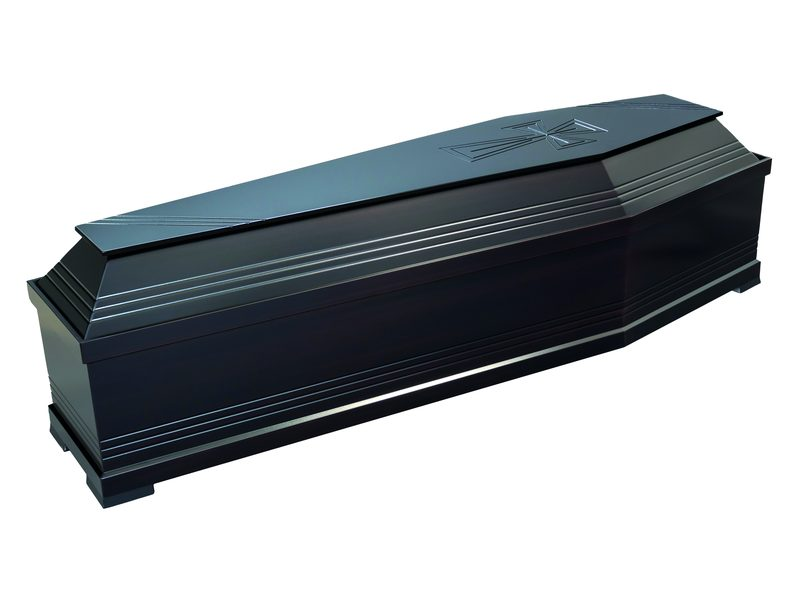
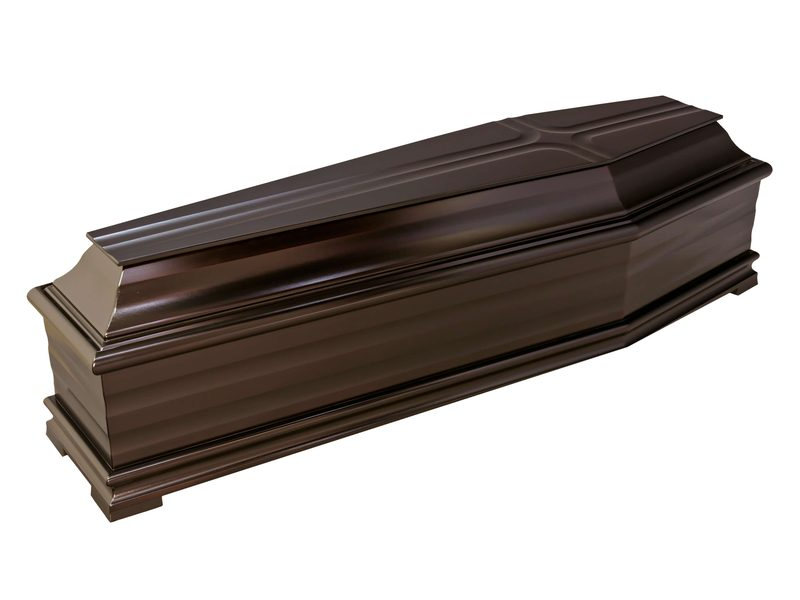
Εκθεσιακός Χώρος: φέρετρα Τογρίδη ΛΤ1–ΛΤ6 και ΛΤ30–ΛΤ52 (ΝΣ1–ΝΣ29), hover λεπτομέρειας

diff --git a/ekthesiakos-xoros/index.html b/ekthesiakos-xoros/index.html
@@ -31,7 +31,7 @@
   <link rel="preconnect" href="https://fonts.googleapis.com">
   <link rel="preconnect" href="https://fonts.gstatic.com" crossorigin>
   <link href="https://fonts.googleapis.com/css2?family=Bona+Nova:ital,wght@0,400;0,700;1,400&family=Manrope:wght@400;500;600;700&display=swap" rel="stylesheet">
-  <link rel="stylesheet" href="/css/style.css?v=55930bc8">
+  <link rel="stylesheet" href="/css/style.css?v=677fbdaf">
   <script>document.documentElement.classList.add("js")</script>
   <script type="application/ld+json">
 {
@@ -343,80 +343,92 @@
       <p class="lead">Για κάθε μοντέλο ρωτήστε μας με τον κωδικό του (π.χ. ΝΣ1) για διαθεσιμότητα και τιμή.</p>
     </div>
     <div class="coffins"><figure class="coffin">
-        <div class="coffin-img"><img src="/images/feretra/ns-01.jpg?v=a509110a" alt="Φέρετρο ΝΣ1" width="800" height="600" loading="lazy" decoding="async"></div>
+        <div class="coffin-img"><img src="/images/feretra/ns-01.jpg?v=49fc8ac6" alt="Φέρετρο ΝΣ1" width="800" height="600" loading="lazy" decoding="async"></div>
         <figcaption><span>Φέρετρο</span><span class="ns-code"><img src="/images/logo-emblem.svg?v=0229724a" alt="" width="26" height="26">ΝΣ1</span></figcaption>
       </figure><figure class="coffin">
-        <div class="coffin-img"><img src="/images/feretra/ns-02.jpg?v=50a0dc26" alt="Φέρετρο ΝΣ2" width="800" height="600" loading="lazy" decoding="async"></div>
+        <div class="coffin-img"><img src="/images/feretra/ns-02.jpg?v=b3fe45cb" alt="Φέρετρο ΝΣ2" width="800" height="600" loading="lazy" decoding="async"></div>
         <figcaption><span>Φέρετρο</span><span class="ns-code"><img src="/images/logo-emblem.svg?v=0229724a" alt="" width="26" height="26">ΝΣ2</span></figcaption>
       </figure><figure class="coffin">
-        <div class="coffin-img"><img src="/images/feretra/ns-03.jpg?v=affc0937" alt="Φέρετρο ΝΣ3" width="800" height="600" loading="lazy" decoding="async"></div>
+        <div class="coffin-img"><img src="/images/feretra/ns-03.jpg?v=b3b64ed7" alt="Φέρετρο ΝΣ3" width="800" height="600" loading="lazy" decoding="async"></div>
         <figcaption><span>Φέρετρο</span><span class="ns-code"><img src="/images/logo-emblem.svg?v=0229724a" alt="" width="26" height="26">ΝΣ3</span></figcaption>
       </figure><figure class="coffin">
-        <div class="coffin-img"><img src="/images/feretra/ns-04.jpg?v=61e7fa18" alt="Φέρετρο ΝΣ4" width="800" height="600" loading="lazy" decoding="async"></div>
+        <div class="coffin-img"><img src="/images/feretra/ns-04.jpg?v=2aa57f7a" alt="Φέρετρο ΝΣ4" width="800" height="600" loading="lazy" decoding="async"></div>
         <figcaption><span>Φέρετρο</span><span class="ns-code"><img src="/images/logo-emblem.svg?v=0229724a" alt="" width="26" height="26">ΝΣ4</span></figcaption>
       </figure><figure class="coffin">
-        <div class="coffin-img"><img src="/images/feretra/ns-05.jpg?v=1c40e6ad" alt="Φέρετρο ΝΣ5" width="800" height="600" loading="lazy" decoding="async"></div>
+        <div class="coffin-img"><img src="/images/feretra/ns-05.jpg?v=b9858bf8" alt="Φέρετρο ΝΣ5" width="800" height="600" loading="lazy" decoding="async"></div>
         <figcaption><span>Φέρετρο</span><span class="ns-code"><img src="/images/logo-emblem.svg?v=0229724a" alt="" width="26" height="26">ΝΣ5</span></figcaption>
       </figure><figure class="coffin">
-        <div class="coffin-img"><img src="/images/feretra/ns-06.jpg?v=bc024340" alt="Φέρετρο ΝΣ6" width="800" height="600" loading="lazy" decoding="async"></div>
+        <div class="coffin-img"><img src="/images/feretra/ns-06.jpg?v=a509110a" alt="Φέρετρο ΝΣ6" width="800" height="600" loading="lazy" decoding="async"></div>
         <figcaption><span>Φέρετρο</span><span class="ns-code"><img src="/images/logo-emblem.svg?v=0229724a" alt="" width="26" height="26">ΝΣ6</span></figcaption>
       </figure><figure class="coffin">
-        <div class="coffin-img"><img src="/images/feretra/ns-07.jpg?v=921107a1" alt="Φέρετρο ΝΣ7" width="800" height="600" loading="lazy" decoding="async"></div>
+        <div class="coffin-img"><img src="/images/feretra/ns-07.jpg?v=4c207993" alt="Φέρετρο ΝΣ7" width="800" height="600" loading="lazy" decoding="async"></div>
         <figcaption><span>Φέρετρο</span><span class="ns-code"><img src="/images/logo-emblem.svg?v=0229724a" alt="" width="26" height="26">ΝΣ7</span></figcaption>
       </figure><figure class="coffin">
-        <div class="coffin-img"><img src="/images/feretra/ns-08.jpg?v=344077b5" alt="Φέρετρο ΝΣ8" width="800" height="600" loading="lazy" decoding="async"></div>
+        <div class="coffin-img"><img src="/images/feretra/ns-08.jpg?v=b40c100a" alt="Φέρετρο ΝΣ8" width="800" height="600" loading="lazy" decoding="async"></div>
         <figcaption><span>Φέρετρο</span><span class="ns-code"><img src="/images/logo-emblem.svg?v=0229724a" alt="" width="26" height="26">ΝΣ8</span></figcaption>
-      </figure><figure class="coffin">
-        <div class="coffin-img"><img src="/images/feretra/ns-09.jpg?v=98d46623" alt="Φέρετρο ΝΣ9" width="800" height="600" loading="lazy" decoding="async"></div>
+      </figure><figure class="coffin has-alt">
+        <div class="coffin-img"><img src="/images/feretra/ns-09.jpg?v=e47941de" alt="Φέρετρο ΝΣ9" width="800" height="600" loading="lazy" decoding="async"><img class="alt" src="/images/feretra/ns-09-b.jpg?v=4f579cf0" alt="" width="800" height="600" loading="lazy" decoding="async"></div>
         <figcaption><span>Φέρετρο</span><span class="ns-code"><img src="/images/logo-emblem.svg?v=0229724a" alt="" width="26" height="26">ΝΣ9</span></figcaption>
-      </figure><figure class="coffin">
-        <div class="coffin-img"><img src="/images/feretra/ns-10.jpg?v=f0885069" alt="Φέρετρο ΝΣ10" width="800" height="600" loading="lazy" decoding="async"></div>
+      </figure><figure class="coffin has-alt">
+        <div class="coffin-img"><img src="/images/feretra/ns-10.jpg?v=9264a419" alt="Φέρετρο ΝΣ10" width="800" height="600" loading="lazy" decoding="async"><img class="alt" src="/images/feretra/ns-10-b.jpg?v=fb5206c9" alt="" width="800" height="600" loading="lazy" decoding="async"></div>
         <figcaption><span>Φέρετρο</span><span class="ns-code"><img src="/images/logo-emblem.svg?v=0229724a" alt="" width="26" height="26">ΝΣ10</span></figcaption>
-      </figure><figure class="coffin">
-        <div class="coffin-img"><img src="/images/feretra/ns-11.jpg?v=be9fce94" alt="Φέρετρο ΝΣ11" width="800" height="600" loading="lazy" decoding="async"></div>
+      </figure><figure class="coffin has-alt">
+        <div class="coffin-img"><img src="/images/feretra/ns-11.jpg?v=ca767d42" alt="Φέρετρο ΝΣ11" width="800" height="600" loading="lazy" decoding="async"><img class="alt" src="/images/feretra/ns-11-b.jpg?v=793852ee" alt="" width="800" height="600" loading="lazy" decoding="async"></div>
         <figcaption><span>Φέρετρο</span><span class="ns-code"><img src="/images/logo-emblem.svg?v=0229724a" alt="" width="26" height="26">ΝΣ11</span></figcaption>
-      </figure><figure class="coffin">
-        <div class="coffin-img"><img src="/images/feretra/ns-12.jpg?v=a76ac381" alt="Φέρετρο ΝΣ12" width="800" height="600" loading="lazy" decoding="async"></div>
+      </figure><figure class="coffin has-alt">
+        <div class="coffin-img"><img src="/images/feretra/ns-12.jpg?v=1373c8b3" alt="Φέρετρο ΝΣ12" width="800" height="600" loading="lazy" decoding="async"><img class="alt" src="/images/feretra/ns-12-b.jpg?v=36bd8859" alt="" width="800" height="600" loading="lazy" decoding="async"></div>
         <figcaption><span>Φέρετρο</span><span class="ns-code"><img src="/images/logo-emblem.svg?v=0229724a" alt="" width="26" height="26">ΝΣ12</span></figcaption>
-      </figure><figure class="coffin">
-        <div class="coffin-img"><img src="/images/feretra/ns-13.jpg?v=b44b5df5" alt="Φέρετρο ΝΣ13" width="800" height="600" loading="lazy" decoding="async"></div>
+      </figure><figure class="coffin has-alt">
+        <div class="coffin-img"><img src="/images/feretra/ns-13.jpg?v=65989dc7" alt="Φέρετρο ΝΣ13" width="800" height="600" loading="lazy" decoding="async"><img class="alt" src="/images/feretra/ns-13-b.jpg?v=c7cd44a7" alt="" width="800" height="600" loading="lazy" decoding="async"></div>
         <figcaption><span>Φέρετρο</span><span class="ns-code"><img src="/images/logo-emblem.svg?v=0229724a" alt="" width="26" height="26">ΝΣ13</span></figcaption>
-      </figure><figure class="coffin">
-        <div class="coffin-img"><img src="/images/feretra/ns-14.jpg?v=8f1da83f" alt="Φέρετρο ΝΣ14" width="800" height="600" loading="lazy" decoding="async"></div>
+      </figure><figure class="coffin has-alt">
+        <div class="coffin-img"><img src="/images/feretra/ns-14.jpg?v=57c83745" alt="Φέρετρο ΝΣ14" width="800" height="600" loading="lazy" decoding="async"><img class="alt" src="/images/feretra/ns-14-b.jpg?v=b7ee51c3" alt="" width="800" height="600" loading="lazy" decoding="async"></div>
         <figcaption><span>Φέρετρο</span><span class="ns-code"><img src="/images/logo-emblem.svg?v=0229724a" alt="" width="26" height="26">ΝΣ14</span></figcaption>
-      </figure><figure class="coffin">
-        <div class="coffin-img"><img src="/images/feretra/ns-15.jpg?v=752f7ab7" alt="Φέρετρο ΝΣ15" width="800" height="600" loading="lazy" decoding="async"></div>
+      </figure><figure class="coffin has-alt">
+        <div class="coffin-img"><img src="/images/feretra/ns-15.jpg?v=0faeb623" alt="Φέρετρο ΝΣ15" width="800" height="600" loading="lazy" decoding="async"><img class="alt" src="/images/feretra/ns-15-b.jpg?v=03e06d97" alt="" width="800" height="600" loading="lazy" decoding="async"></div>
         <figcaption><span>Φέρετρο</span><span class="ns-code"><img src="/images/logo-emblem.svg?v=0229724a" alt="" width="26" height="26">ΝΣ15</span></figcaption>
-      </figure><figure class="coffin">
-        <div class="coffin-img"><img src="/images/feretra/ns-16.jpg?v=04a785e4" alt="Φέρετρο ΝΣ16" width="800" height="600" loading="lazy" decoding="async"></div>
+      </figure><figure class="coffin has-alt">
+        <div class="coffin-img"><img src="/images/feretra/ns-16.jpg?v=823c6407" alt="Φέρετρο ΝΣ16" width="800" height="600" loading="lazy" decoding="async"><img class="alt" src="/images/feretra/ns-16-b.jpg?v=d625d18e" alt="" width="800" height="600" loading="lazy" decoding="async"></div>
         <figcaption><span>Φέρετρο</span><span class="ns-code"><img src="/images/logo-emblem.svg?v=0229724a" alt="" width="26" height="26">ΝΣ16</span></figcaption>
-      </figure><figure class="coffin">
-        <div class="coffin-img"><img src="/images/feretra/ns-17.jpg?v=19d02770" alt="Φέρετρο ΝΣ17" width="800" height="600" loading="lazy" decoding="async"></div>
+      </figure><figure class="coffin has-alt">
+        <div class="coffin-img"><img src="/images/feretra/ns-17.jpg?v=0aeb4102" alt="Φέρετρο ΝΣ17" width="800" height="600" loading="lazy" decoding="async"><img class="alt" src="/images/feretra/ns-17-b.jpg?v=7339364d" alt="" width="800" height="600" loading="lazy" decoding="async"></div>
         <figcaption><span>Φέρετρο</span><span class="ns-code"><img src="/images/logo-emblem.svg?v=0229724a" alt="" width="26" height="26">ΝΣ17</span></figcaption>
-      </figure><figure class="coffin">
-        <div class="coffin-img"><img src="/images/feretra/ns-18.jpg?v=1770c96b" alt="Φέρετρο ΝΣ18" width="800" height="600" loading="lazy" decoding="async"></div>
+      </figure><figure class="coffin has-alt">
+        <div class="coffin-img"><img src="/images/feretra/ns-18.jpg?v=6b72402c" alt="Φέρετρο ΝΣ18" width="800" height="600" loading="lazy" decoding="async"><img class="alt" src="/images/feretra/ns-18-b.jpg?v=f295a709" alt="" width="800" height="600" loading="lazy" decoding="async"></div>
         <figcaption><span>Φέρετρο</span><span class="ns-code"><img src="/images/logo-emblem.svg?v=0229724a" alt="" width="26" height="26">ΝΣ18</span></figcaption>
-      </figure><figure class="coffin">
-        <div class="coffin-img"><img src="/images/feretra/ns-19.jpg?v=66ee1d44" alt="Φέρετρο ΝΣ19" width="800" height="600" loading="lazy" decoding="async"></div>
+      </figure><figure class="coffin has-alt">
+        <div class="coffin-img"><img src="/images/feretra/ns-19.jpg?v=bc7b713e" alt="Φέρετρο ΝΣ19" width="800" height="600" loading="lazy" decoding="async"><img class="alt" src="/images/feretra/ns-19-b.jpg?v=b0fb6be4" alt="" width="800" height="600" loading="lazy" decoding="async"></div>
         <figcaption><span>Φέρετρο</span><span class="ns-code"><img src="/images/logo-emblem.svg?v=0229724a" alt="" width="26" height="26">ΝΣ19</span></figcaption>
-      </figure><figure class="coffin">
-        <div class="coffin-img"><img src="/images/feretra/ns-20.jpg?v=a5fc7ff0" alt="Φέρετρο ΝΣ20" width="800" height="600" loading="lazy" decoding="async"></div>
+      </figure><figure class="coffin has-alt">
+        <div class="coffin-img"><img src="/images/feretra/ns-20.jpg?v=71f90f0e" alt="Φέρετρο ΝΣ20" width="800" height="600" loading="lazy" decoding="async"><img class="alt" src="/images/feretra/ns-20-b.jpg?v=33cecc2f" alt="" width="800" height="600" loading="lazy" decoding="async"></div>
         <figcaption><span>Φέρετρο</span><span class="ns-code"><img src="/images/logo-emblem.svg?v=0229724a" alt="" width="26" height="26">ΝΣ20</span></figcaption>
-      </figure><figure class="coffin">
-        <div class="coffin-img"><img src="/images/feretra/ns-21.jpg?v=68375f8c" alt="Φέρετρο ΝΣ21" width="800" height="600" loading="lazy" decoding="async"></div>
+      </figure><figure class="coffin has-alt">
+        <div class="coffin-img"><img src="/images/feretra/ns-21.jpg?v=d1ad56f0" alt="Φέρετρο ΝΣ21" width="800" height="600" loading="lazy" decoding="async"><img class="alt" src="/images/feretra/ns-21-b.jpg?v=dc8d9cda" alt="" width="800" height="600" loading="lazy" decoding="async"></div>
         <figcaption><span>Φέρετρο</span><span class="ns-code"><img src="/images/logo-emblem.svg?v=0229724a" alt="" width="26" height="26">ΝΣ21</span></figcaption>
-      </figure><figure class="coffin">
-        <div class="coffin-img"><img src="/images/feretra/ns-22.jpg?v=23079364" alt="Φέρετρο ΝΣ22" width="800" height="600" loading="lazy" decoding="async"></div>
+      </figure><figure class="coffin has-alt">
+        <div class="coffin-img"><img src="/images/feretra/ns-22.jpg?v=0a406926" alt="Φέρετρο ΝΣ22" width="800" height="600" loading="lazy" decoding="async"><img class="alt" src="/images/feretra/ns-22-b.jpg?v=b943ad9c" alt="" width="800" height="600" loading="lazy" decoding="async"></div>
         <figcaption><span>Φέρετρο</span><span class="ns-code"><img src="/images/logo-emblem.svg?v=0229724a" alt="" width="26" height="26">ΝΣ22</span></figcaption>
-      </figure><figure class="coffin">
-        <div class="coffin-img"><img src="/images/feretra/ns-23.jpg?v=4de411d1" alt="Φέρετρο ΝΣ23" width="800" height="600" loading="lazy" decoding="async"></div>
+      </figure><figure class="coffin has-alt">
+        <div class="coffin-img"><img src="/images/feretra/ns-23.jpg?v=9478dc9d" alt="Φέρετρο ΝΣ23" width="800" height="600" loading="lazy" decoding="async"><img class="alt" src="/images/feretra/ns-23-b.jpg?v=88e22f5f" alt="" width="800" height="600" loading="lazy" decoding="async"></div>
         <figcaption><span>Φέρετρο</span><span class="ns-code"><img src="/images/logo-emblem.svg?v=0229724a" alt="" width="26" height="26">ΝΣ23</span></figcaption>
-      </figure><figure class="coffin">
-        <div class="coffin-img"><img src="/images/feretra/ns-24.jpg?v=ce4b4be9" alt="Φέρετρο ΝΣ24" width="800" height="600" loading="lazy" decoding="async"></div>
+      </figure><figure class="coffin has-alt">
+        <div class="coffin-img"><img src="/images/feretra/ns-24.jpg?v=fd901109" alt="Φέρετρο ΝΣ24" width="800" height="600" loading="lazy" decoding="async"><img class="alt" src="/images/feretra/ns-24-b.jpg?v=c67258eb" alt="" width="800" height="600" loading="lazy" decoding="async"></div>
         <figcaption><span>Φέρετρο</span><span class="ns-code"><img src="/images/logo-emblem.svg?v=0229724a" alt="" width="26" height="26">ΝΣ24</span></figcaption>
-      </figure><figure class="coffin">
-        <div class="coffin-img"><img src="/images/feretra/ns-25.jpg?v=4c207993" alt="Φέρετρο ΝΣ25" width="800" height="600" loading="lazy" decoding="async"></div>
+      </figure><figure class="coffin has-alt">
+        <div class="coffin-img"><img src="/images/feretra/ns-25.jpg?v=b80c15f4" alt="Φέρετρο ΝΣ25" width="800" height="600" loading="lazy" decoding="async"><img class="alt" src="/images/feretra/ns-25-b.jpg?v=26ab7c93" alt="" width="800" height="600" loading="lazy" decoding="async"></div>
         <figcaption><span>Φέρετρο</span><span class="ns-code"><img src="/images/logo-emblem.svg?v=0229724a" alt="" width="26" height="26">ΝΣ25</span></figcaption>
+      </figure><figure class="coffin has-alt">
+        <div class="coffin-img"><img src="/images/feretra/ns-26.jpg?v=8c5ab2f4" alt="Φέρετρο ΝΣ26" width="800" height="600" loading="lazy" decoding="async"><img class="alt" src="/images/feretra/ns-26-b.jpg?v=2b66a2f3" alt="" width="800" height="600" loading="lazy" decoding="async"></div>
+        <figcaption><span>Φέρετρο</span><span class="ns-code"><img src="/images/logo-emblem.svg?v=0229724a" alt="" width="26" height="26">ΝΣ26</span></figcaption>
+      </figure><figure class="coffin has-alt">
+        <div class="coffin-img"><img src="/images/feretra/ns-27.jpg?v=07a37550" alt="Φέρετρο ΝΣ27" width="800" height="600" loading="lazy" decoding="async"><img class="alt" src="/images/feretra/ns-27-b.jpg?v=1e507e81" alt="" width="800" height="600" loading="lazy" decoding="async"></div>
+        <figcaption><span>Φέρετρο</span><span class="ns-code"><img src="/images/logo-emblem.svg?v=0229724a" alt="" width="26" height="26">ΝΣ27</span></figcaption>
+      </figure><figure class="coffin has-alt">
+        <div class="coffin-img"><img src="/images/feretra/ns-28.jpg?v=378f14a8" alt="Φέρετρο ΝΣ28" width="800" height="600" loading="lazy" decoding="async"><img class="alt" src="/images/feretra/ns-28-b.jpg?v=f43e77e0" alt="" width="800" height="600" loading="lazy" decoding="async"></div>
+        <figcaption><span>Φέρετρο</span><span class="ns-code"><img src="/images/logo-emblem.svg?v=0229724a" alt="" width="26" height="26">ΝΣ28</span></figcaption>
+      </figure><figure class="coffin has-alt">
+        <div class="coffin-img"><img src="/images/feretra/ns-29.jpg?v=be15347c" alt="Φέρετρο ΝΣ29" width="800" height="600" loading="lazy" decoding="async"><img class="alt" src="/images/feretra/ns-29-b.jpg?v=4bb7adef" alt="" width="800" height="600" loading="lazy" decoding="async"></div>
+        <figcaption><span>Φέρετρο</span><span class="ns-code"><img src="/images/logo-emblem.svg?v=0229724a" alt="" width="26" height="26">ΝΣ29</span></figcaption>
       </figure>
     </div>
   </div>
@@ -484,6 +496,6 @@
   <a class="primary" href="tel:+302107600900"><svg viewBox="0 0 24 24" fill="none" stroke="currentColor" stroke-width="1.6" stroke-linecap="round" stroke-linejoin="round" aria-hidden="true"><path d="M5 3.5h3.2l1.6 4.2-2.1 1.4a11.5 11.5 0 0 0 7.2 7.2l1.4-2.1 4.2 1.6V19a1.8 1.8 0 0 1-2 1.8A16.5 16.5 0 0 1 3.2 5.5 1.8 1.8 0 0 1 5 3.5z"/></svg>210 7600 900</a>
   <a href="tel:+306944145844"><svg viewBox="0 0 24 24" fill="none" stroke="currentColor" stroke-width="1.6" stroke-linecap="round" stroke-linejoin="round" aria-hidden="true"><rect x="6.5" y="2.5" width="11" height="19" rx="2.5"/><path d="M10.5 18.5h3"/></svg>Κινητό</a>
 </div>
-<script src="/js/main.js?v=55930bc8" defer></script>
+<script src="/js/main.js?v=677fbdaf" defer></script>
 </body>
 </html>

diff --git a/404.html b/404.html
@@ -31,7 +31,7 @@
   <link rel="preconnect" href="https://fonts.googleapis.com">
   <link rel="preconnect" href="https://fonts.gstatic.com" crossorigin>
   <link href="https://fonts.googleapis.com/css2?family=Bona+Nova:ital,wght@0,400;0,700;1,400&family=Manrope:wght@400;500;600;700&display=swap" rel="stylesheet">
-  <link rel="stylesheet" href="/css/style.css?v=55930bc8">
+  <link rel="stylesheet" href="/css/style.css?v=677fbdaf">
   <script>document.documentElement.classList.add("js")</script>
   <script type="application/ld+json">
 {
@@ -351,6 +351,6 @@
   <a class="primary" href="tel:+302107600900"><svg viewBox="0 0 24 24" fill="none" stroke="currentColor" stroke-width="1.6" stroke-linecap="round" stroke-linejoin="round" aria-hidden="true"><path d="M5 3.5h3.2l1.6 4.2-2.1 1.4a11.5 11.5 0 0 0 7.2 7.2l1.4-2.1 4.2 1.6V19a1.8 1.8 0 0 1-2 1.8A16.5 16.5 0 0 1 3.2 5.5 1.8 1.8 0 0 1 5 3.5z"/></svg>210 7600 900</a>
   <a href="tel:+306944145844"><svg viewBox="0 0 24 24" fill="none" stroke="currentColor" stroke-width="1.6" stroke-linecap="round" stroke-linejoin="round" aria-hidden="true"><rect x="6.5" y="2.5" width="11" height="19" rx="2.5"/><path d="M10.5 18.5h3"/></svg>Κινητό</a>
 </div>
-<script src="/js/main.js?v=55930bc8" defer></script>
+<script src="/js/main.js?v=677fbdaf" defer></script>
 </body>
 </html>

diff --git a/epikoinonia/index.html b/epikoinonia/index.html
@@ -31,7 +31,7 @@
   <link rel="preconnect" href="https://fonts.googleapis.com">
   <link rel="preconnect" href="https://fonts.gstatic.com" crossorigin>
   <link href="https://fonts.googleapis.com/css2?family=Bona+Nova:ital,wght@0,400;0,700;1,400&family=Manrope:wght@400;500;600;700&display=swap" rel="stylesheet">
-  <link rel="stylesheet" href="/css/style.css?v=55930bc8">
+  <link rel="stylesheet" href="/css/style.css?v=677fbdaf">
   <script>document.documentElement.classList.add("js")</script>
   <script type="application/ld+json">
 {
@@ -420,6 +420,6 @@
   <a class="primary" href="tel:+302107600900"><svg viewBox="0 0 24 24" fill="none" stroke="currentColor" stroke-width="1.6" stroke-linecap="round" stroke-linejoin="round" aria-hidden="true"><path d="M5 3.5h3.2l1.6 4.2-2.1 1.4a11.5 11.5 0 0 0 7.2 7.2l1.4-2.1 4.2 1.6V19a1.8 1.8 0 0 1-2 1.8A16.5 16.5 0 0 1 3.2 5.5 1.8 1.8 0 0 1 5 3.5z"/></svg>210 7600 900</a>
   <a href="tel:+306944145844"><svg viewBox="0 0 24 24" fill="none" stroke="currentColor" stroke-width="1.6" stroke-linecap="round" stroke-linejoin="round" aria-hidden="true"><rect x="6.5" y="2.5" width="11" height="19" rx="2.5"/><path d="M10.5 18.5h3"/></svg>Κινητό</a>
 </div>
-<script src="/js/main.js?v=55930bc8" defer></script>
+<script src="/js/main.js?v=677fbdaf" defer></script>
 </body>
 </html>

diff --git a/index.html b/index.html
@@ -31,7 +31,7 @@
   <link rel="preconnect" href="https://fonts.googleapis.com">
   <link rel="preconnect" href="https://fonts.gstatic.com" crossorigin>
   <link href="https://fonts.googleapis.com/css2?family=Bona+Nova:ital,wght@0,400;0,700;1,400&family=Manrope:wght@400;500;600;700&display=swap" rel="stylesheet">
-  <link rel="stylesheet" href="/css/style.css?v=55930bc8">
+  <link rel="stylesheet" href="/css/style.css?v=677fbdaf">
   <script>document.documentElement.classList.add("js")</script>
   <script type="application/ld+json">
 {
@@ -537,6 +537,6 @@
   <a class="primary" href="tel:+302107600900"><svg viewBox="0 0 24 24" fill="none" stroke="currentColor" stroke-width="1.6" stroke-linecap="round" stroke-linejoin="round" aria-hidden="true"><path d="M5 3.5h3.2l1.6 4.2-2.1 1.4a11.5 11.5 0 0 0 7.2 7.2l1.4-2.1 4.2 1.6V19a1.8 1.8 0 0 1-2 1.8A16.5 16.5 0 0 1 3.2 5.5 1.8 1.8 0 0 1 5 3.5z"/></svg>210 7600 900</a>
   <a href="tel:+306944145844"><svg viewBox="0 0 24 24" fill="none" stroke="currentColor" stroke-width="1.6" stroke-linecap="round" stroke-linejoin="round" aria-hidden="true"><rect x="6.5" y="2.5" width="11" height="19" rx="2.5"/><path d="M10.5 18.5h3"/></svg>Κινητό</a>
 </div>
-<script src="/js/main.js?v=55930bc8" defer></script>
+<script src="/js/main.js?v=677fbdaf" defer></script>
 </body>
 </html>

diff --git a/ti-kano-tora/index.html b/ti-kano-tora/index.html
@@ -31,7 +31,7 @@
   <link rel="preconnect" href="https://fonts.googleapis.com">
   <link rel="preconnect" href="https://fonts.gstatic.com" crossorigin>
   <link href="https://fonts.googleapis.com/css2?family=Bona+Nova:ital,wght@0,400;0,700;1,400&family=Manrope:wght@400;500;600;700&display=swap" rel="stylesheet">
-  <link rel="stylesheet" href="/css/style.css?v=55930bc8">
+  <link rel="stylesheet" href="/css/style.css?v=677fbdaf">
   <script>document.documentElement.classList.add("js")</script>
   <script type="application/ld+json">
 {
@@ -482,6 +482,6 @@
   <a class="primary" href="tel:+302107600900"><svg viewBox="0 0 24 24" fill="none" stroke="currentColor" stroke-width="1.6" stroke-linecap="round" stroke-linejoin="round" aria-hidden="true"><path d="M5 3.5h3.2l1.6 4.2-2.1 1.4a11.5 11.5 0 0 0 7.2 7.2l1.4-2.1 4.2 1.6V19a1.8 1.8 0 0 1-2 1.8A16.5 16.5 0 0 1 3.2 5.5 1.8 1.8 0 0 1 5 3.5z"/></svg>210 7600 900</a>
   <a href="tel:+306944145844"><svg viewBox="0 0 24 24" fill="none" stroke="currentColor" stroke-width="1.6" stroke-linecap="round" stroke-linejoin="round" aria-hidden="true"><rect x="6.5" y="2.5" width="11" height="19" rx="2.5"/><path d="M10.5 18.5h3"/></svg>Κινητό</a>
 </div>
-<script src="/js/main.js?v=55930bc8" defer></script>
+<script src="/js/main.js?v=677fbdaf" defer></script>
 </body>
 </html>

diff --git a/to-grafeio/index.html b/to-grafeio/index.html
@@ -31,7 +31,7 @@
   <link rel="preconnect" href="https://fonts.googleapis.com">
   <link rel="preconnect" href="https://fonts.gstatic.com" crossorigin>
   <link href="https://fonts.googleapis.com/css2?family=Bona+Nova:ital,wght@0,400;0,700;1,400&family=Manrope:wght@400;500;600;700&display=swap" rel="stylesheet">
-  <link rel="stylesheet" href="/css/style.css?v=55930bc8">
+  <link rel="stylesheet" href="/css/style.css?v=677fbdaf">
   <script>document.documentElement.classList.add("js")</script>
   <script type="application/ld+json">
 {
@@ -455,6 +455,6 @@
   <a class="primary" href="tel:+302107600900"><svg viewBox="0 0 24 24" fill="none" stroke="currentColor" stroke-width="1.6" stroke-linecap="round" stroke-linejoin="round" aria-hidden="true"><path d="M5 3.5h3.2l1.6 4.2-2.1 1.4a11.5 11.5 0 0 0 7.2 7.2l1.4-2.1 4.2 1.6V19a1.8 1.8 0 0 1-2 1.8A16.5 16.5 0 0 1 3.2 5.5 1.8 1.8 0 0 1 5 3.5z"/></svg>210 7600 900</a>
   <a href="tel:+306944145844"><svg viewBox="0 0 24 24" fill="none" stroke="currentColor" stroke-width="1.6" stroke-linecap="round" stroke-linejoin="round" aria-hidden="true"><rect x="6.5" y="2.5" width="11" height="19" rx="2.5"/><path d="M10.5 18.5h3"/></svg>Κινητό</a>
 </div>
-<script src="/js/main.js?v=55930bc8" defer></script>
+<script src="/js/main.js?v=677fbdaf" defer></script>
 </body>
 </html>

diff --git a/ypiresies/anthostolismos/index.html b/ypiresies/anthostolismos/index.html
@@ -31,7 +31,7 @@
   <link rel="preconnect" href="https://fonts.googleapis.com">
   <link rel="preconnect" href="https://fonts.gstatic.com" crossorigin>
   <link href="https://fonts.googleapis.com/css2?family=Bona+Nova:ital,wght@0,400;0,700;1,400&family=Manrope:wght@400;500;600;700&display=swap" rel="stylesheet">
-  <link rel="stylesheet" href="/css/style.css?v=55930bc8">
+  <link rel="stylesheet" href="/css/style.css?v=677fbdaf">
   <script>document.documentElement.classList.add("js")</script>
   <script type="application/ld+json">
 {
@@ -509,6 +509,6 @@
   <a class="primary" href="tel:+302107600900"><svg viewBox="0 0 24 24" fill="none" stroke="currentColor" stroke-width="1.6" stroke-linecap="round" stroke-linejoin="round" aria-hidden="true"><path d="M5 3.5h3.2l1.6 4.2-2.1 1.4a11.5 11.5 0 0 0 7.2 7.2l1.4-2.1 4.2 1.6V19a1.8 1.8 0 0 1-2 1.8A16.5 16.5 0 0 1 3.2 5.5 1.8 1.8 0 0 1 5 3.5z"/></svg>210 7600 900</a>
   <a href="tel:+306944145844"><svg viewBox="0 0 24 24" fill="none" stroke="currentColor" stroke-width="1.6" stroke-linecap="round" stroke-linejoin="round" aria-hidden="true"><rect x="6.5" y="2.5" width="11" height="19" rx="2.5"/><path d="M10.5 18.5h3"/></svg>Κινητό</a>
 </div>
-<script src="/js/main.js?v=55930bc8" defer></script>
+<script src="/js/main.js?v=677fbdaf" defer></script>
 </body>
 </html>

diff --git a/ypiresies/apotefroseis/index.html b/ypiresies/apotefroseis/index.html
@@ -31,7 +31,7 @@
   <link rel="preconnect" href="https://fonts.googleapis.com">
   <link rel="preconnect" href="https://fonts.gstatic.com" crossorigin>
   <link href="https://fonts.googleapis.com/css2?family=Bona+Nova:ital,wght@0,400;0,700;1,400&family=Manrope:wght@400;500;600;700&display=swap" rel="stylesheet">
-  <link rel="stylesheet" href="/css/style.css?v=55930bc8">
+  <link rel="stylesheet" href="/css/style.css?v=677fbdaf">
   <script>document.documentElement.classList.add("js")</script>
   <script type="application/ld+json">
 {
@@ -502,6 +502,6 @@
   <a class="primary" href="tel:+302107600900"><svg viewBox="0 0 24 24" fill="none" stroke="currentColor" stroke-width="1.6" stroke-linecap="round" stroke-linejoin="round" aria-hidden="true"><path d="M5 3.5h3.2l1.6 4.2-2.1 1.4a11.5 11.5 0 0 0 7.2 7.2l1.4-2.1 4.2 1.6V19a1.8 1.8 0 0 1-2 1.8A16.5 16.5 0 0 1 3.2 5.5 1.8 1.8 0 0 1 5 3.5z"/></svg>210 7600 900</a>
   <a href="tel:+306944145844"><svg viewBox="0 0 24 24" fill="none" stroke="currentColor" stroke-width="1.6" stroke-linecap="round" stroke-linejoin="round" aria-hidden="true"><rect x="6.5" y="2.5" width="11" height="19" rx="2.5"/><path d="M10.5 18.5h3"/></svg>Κινητό</a>
 </div>
-<script src="/js/main.js?v=55930bc8" defer></script>
+<script src="/js/main.js?v=677fbdaf" defer></script>
 </body>
 </html>

diff --git a/ypiresies/diadikasies/index.html b/ypiresies/diadikasies/index.html
@@ -31,7 +31,7 @@
   <link rel="preconnect" href="https://fonts.googleapis.com">
   <link rel="preconnect" href="https://fonts.gstatic.com" crossorigin>
   <link href="https://fonts.googleapis.com/css2?family=Bona+Nova:ital,wght@0,400;0,700;1,400&family=Manrope:wght@400;500;600;700&display=swap" rel="stylesheet">
-  <link rel="stylesheet" href="/css/style.css?v=55930bc8">
+  <link rel="stylesheet" href="/css/style.css?v=677fbdaf">
   <script>document.documentElement.classList.add("js")</script>
   <script type="application/ld+json">
 {
@@ -502,6 +502,6 @@
   <a class="primary" href="tel:+302107600900"><svg viewBox="0 0 24 24" fill="none" stroke="currentColor" stroke-width="1.6" stroke-linecap="round" stroke-linejoin="round" aria-hidden="true"><path d="M5 3.5h3.2l1.6 4.2-2.1 1.4a11.5 11.5 0 0 0 7.2 7.2l1.4-2.1 4.2 1.6V19a1.8 1.8 0 0 1-2 1.8A16.5 16.5 0 0 1 3.2 5.5 1.8 1.8 0 0 1 5 3.5z"/></svg>210 7600 900</a>
   <a href="tel:+306944145844"><svg viewBox="0 0 24 24" fill="none" stroke="currentColor" stroke-width="1.6" stroke-linecap="round" stroke-linejoin="round" aria-hidden="true"><rect x="6.5" y="2.5" width="11" height="19" rx="2.5"/><path d="M10.5 18.5h3"/></svg>Κινητό</a>
 </div>
-<script src="/js/main.js?v=55930bc8" defer></script>
+<script src="/js/main.js?v=677fbdaf" defer></script>
 </body>
 </html>

diff --git a/ypiresies/index.html b/ypiresies/index.html
@@ -31,7 +31,7 @@
   <link rel="preconnect" href="https://fonts.googleapis.com">
   <link rel="preconnect" href="https://fonts.gstatic.com" crossorigin>
   <link href="https://fonts.googleapis.com/css2?family=Bona+Nova:ital,wght@0,400;0,700;1,400&family=Manrope:wght@400;500;600;700&display=swap" rel="stylesheet">
-  <link rel="stylesheet" href="/css/style.css?v=55930bc8">
+  <link rel="stylesheet" href="/css/style.css?v=677fbdaf">
   <script>document.documentElement.classList.add("js")</script>
   <script type="application/ld+json">
 {
@@ -485,6 +485,6 @@
   <a class="primary" href="tel:+302107600900"><svg viewBox="0 0 24 24" fill="none" stroke="currentColor" stroke-width="1.6" stroke-linecap="round" stroke-linejoin="round" aria-hidden="true"><path d="M5 3.5h3.2l1.6 4.2-2.1 1.4a11.5 11.5 0 0 0 7.2 7.2l1.4-2.1 4.2 1.6V19a1.8 1.8 0 0 1-2 1.8A16.5 16.5 0 0 1 3.2 5.5 1.8 1.8 0 0 1 5 3.5z"/></svg>210 7600 900</a>
   <a href="tel:+306944145844"><svg viewBox="0 0 24 24" fill="none" stroke="currentColor" stroke-width="1.6" stroke-linecap="round" stroke-linejoin="round" aria-hidden="true"><rect x="6.5" y="2.5" width="11" height="19" rx="2.5"/><path d="M10.5 18.5h3"/></svg>Κινητό</a>
 </div>
-<script src="/js/main.js?v=55930bc8" defer></script>
+<script src="/js/main.js?v=677fbdaf" defer></script>
 </body>
 </html>

diff --git a/ypiresies/kideies/index.html b/ypiresies/kideies/index.html
@@ -31,7 +31,7 @@
   <link rel="preconnect" href="https://fonts.googleapis.com">
   <link rel="preconnect" href="https://fonts.gstatic.com" crossorigin>
   <link href="https://fonts.googleapis.com/css2?family=Bona+Nova:ital,wght@0,400;0,700;1,400&family=Manrope:wght@400;500;600;700&display=swap" rel="stylesheet">
-  <link rel="stylesheet" href="/css/style.css?v=55930bc8">
+  <link rel="stylesheet" href="/css/style.css?v=677fbdaf">
   <script>document.documentElement.classList.add("js")</script>
   <script type="application/ld+json">
 {
@@ -512,6 +512,6 @@
   <a class="primary" href="tel:+302107600900"><svg viewBox="0 0 24 24" fill="none" stroke="currentColor" stroke-width="1.6" stroke-linecap="round" stroke-linejoin="round" aria-hidden="true"><path d="M5 3.5h3.2l1.6 4.2-2.1 1.4a11.5 11.5 0 0 0 7.2 7.2l1.4-2.1 4.2 1.6V19a1.8 1.8 0 0 1-2 1.8A16.5 16.5 0 0 1 3.2 5.5 1.8 1.8 0 0 1 5 3.5z"/></svg>210 7600 900</a>
   <a href="tel:+306944145844"><svg viewBox="0 0 24 24" fill="none" stroke="currentColor" stroke-width="1.6" stroke-linecap="round" stroke-linejoin="round" aria-hidden="true"><rect x="6.5" y="2.5" width="11" height="19" rx="2.5"/><path d="M10.5 18.5h3"/></svg>Κινητό</a>
 </div>
-<script src="/js/main.js?v=55930bc8" defer></script>
+<script src="/js/main.js?v=677fbdaf" defer></script>
 </body>
 </html>

diff --git a/ypiresies/metafora-sorou/index.html b/ypiresies/metafora-sorou/index.html
@@ -31,7 +31,7 @@
   <link rel="preconnect" href="https://fonts.googleapis.com">
   <link rel="preconnect" href="https://fonts.gstatic.com" crossorigin>
   <link href="https://fonts.googleapis.com/css2?family=Bona+Nova:ital,wght@0,400;0,700;1,400&family=Manrope:wght@400;500;600;700&display=swap" rel="stylesheet">
-  <link rel="stylesheet" href="/css/style.css?v=55930bc8">
+  <link rel="stylesheet" href="/css/style.css?v=677fbdaf">
   <script>document.documentElement.classList.add("js")</script>
   <script type="application/ld+json">
 {
@@ -503,6 +503,6 @@
   <a class="primary" href="tel:+302107600900"><svg viewBox="0 0 24 24" fill="none" stroke="currentColor" stroke-width="1.6" stroke-linecap="round" stroke-linejoin="round" aria-hidden="true"><path d="M5 3.5h3.2l1.6 4.2-2.1 1.4a11.5 11.5 0 0 0 7.2 7.2l1.4-2.1 4.2 1.6V19a1.8 1.8 0 0 1-2 1.8A16.5 16.5 0 0 1 3.2 5.5 1.8 1.8 0 0 1 5 3.5z"/></svg>210 7600 900</a>
   <a href="tel:+306944145844"><svg viewBox="0 0 24 24" fill="none" stroke="currentColor" stroke-width="1.6" stroke-linecap="round" stroke-linejoin="round" aria-hidden="true"><rect x="6.5" y="2.5" width="11" height="19" rx="2.5"/><path d="M10.5 18.5h3"/></svg>Κινητό</a>
 </div>
-<script src="/js/main.js?v=55930bc8" defer></script>
+<script src="/js/main.js?v=677fbdaf" defer></script>
 </body>
 </html>
